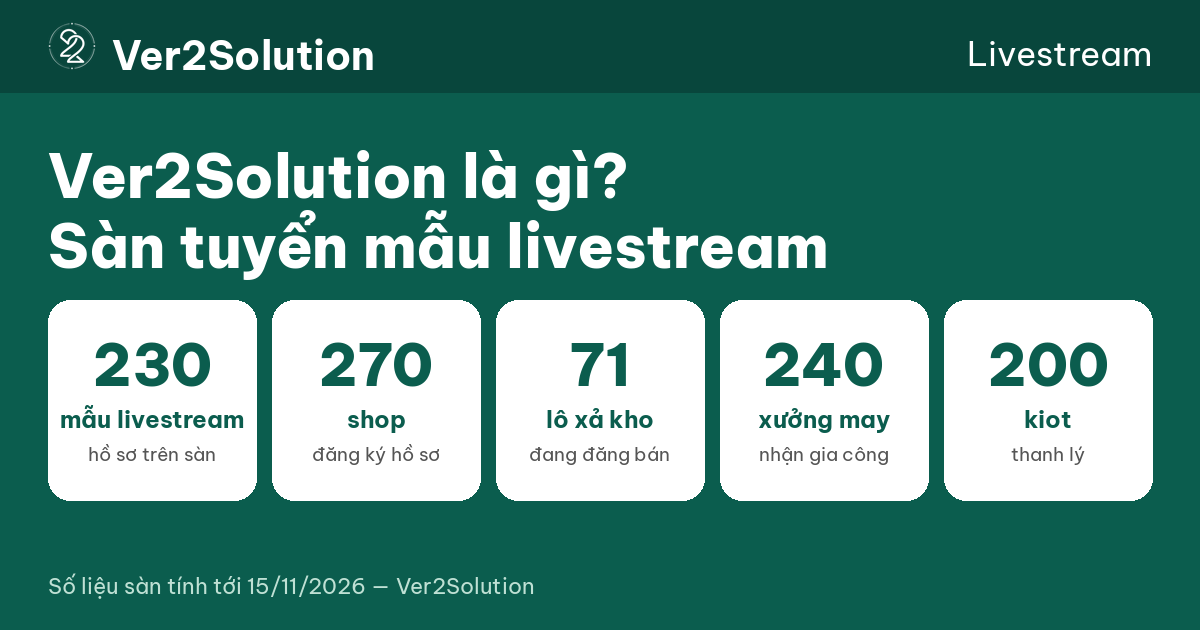
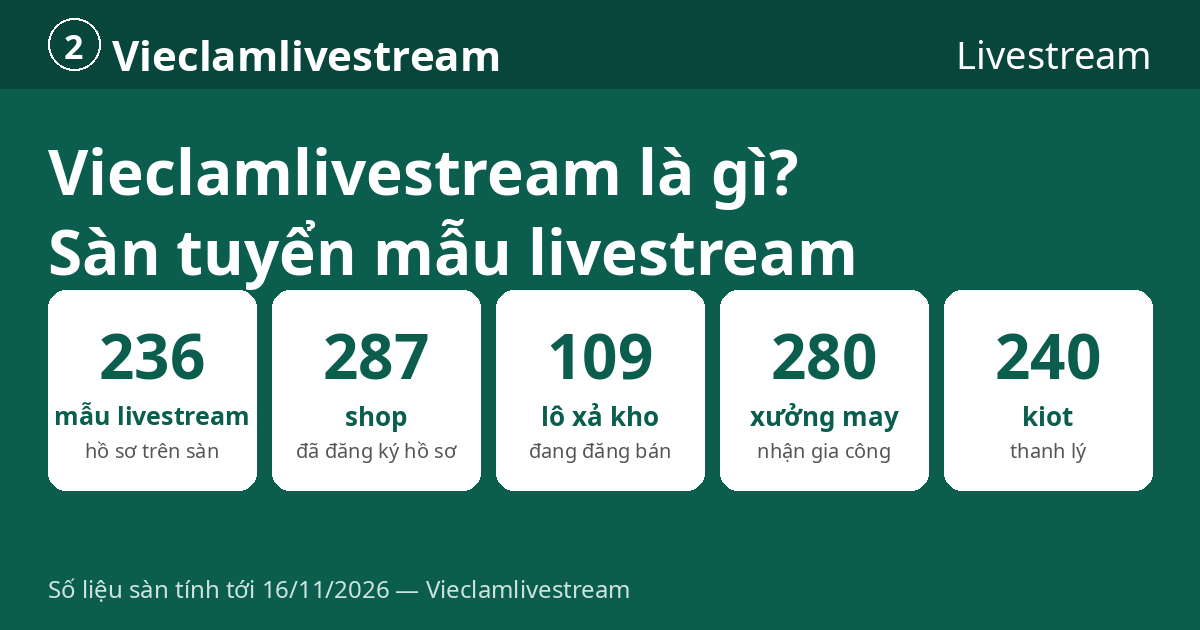
Deploy v286 dong bo so lieu trang gioi thieu (3 file)

diff --git a/gioi-thieu.html b/gioi-thieu.html
@@ -45,7 +45,7 @@
 <main class="wrap">
 <section class="section"><h1>Về chúng tôi</h1>
 <p>Vieclamlivestream.online là sàn việc làm dành cho idol live hàng đầu Việt Nam — nơi mẫu livestream, MC tìm việc đúng nghề và shop tìm đúng người lên live, liên hệ trực tiếp, không qua trung gian. Chúng tôi hoạt động 8 năm với cộng đồng hơn 400 khách bán livestream đang có nhu cầu tìm kiếm dịch vụ.</p>
-<figure style="margin:18px 0 0"><img src="images/bai-viet/gioi-thieu-vieclamlivestream-online.png" alt="Infographic vieclamlivestream.online: 236 mẫu livestream, 287 shop, 68 lô xả kho đang hoạt động, 240 xưởng may, 200 kiot — số liệu sàn tính tới 15/11/2026" style="width:100%;height:auto;border-radius:16px;display:block" loading="lazy"><figcaption style="font-size:13px;color:#666;margin-top:8px">Quy mô sàn tính tới 15/11/2026: 236 mẫu livestream · 287 shop · 68 lô xả kho đang hoạt động · 240 xưởng may · 200 kiot.</figcaption></figure></section>
+<figure style="margin:18px 0 0"><img src="images/bai-viet/gioi-thieu-vieclamlivestream-online.png" alt="Infographic vieclamlivestream.online: 236 mẫu livestream, 287 shop, 109 lô xả kho đang hoạt động, 280 xưởng may, 240 kiot — số liệu sàn tính tới 16/11/2026" style="width:100%;height:auto;border-radius:16px;display:block" loading="lazy"><figcaption style="font-size:13px;color:#666;margin-top:8px">Quy mô sàn (số liệu tự cập nhật): <span data-stat="models">236</span> mẫu livestream · <span data-stat="shops">287</span> shop · <span data-stat="lots">109</span> lô xả kho đang hoạt động · <span data-stat="factories">280</span> xưởng may · <span data-stat="kiots">240</span> kiot.</figcaption></figure></section>
 
 <section class="form-card"><h2>1. Sàn mclivestream là gì</h2>
 <p>Sàn mclivestream là một dịch vụ trong hệ sinh thái vieclamlivestream.online, gồm 4 mảng:</p>

diff --git a/sw.js b/sw.js
@@ -23,7 +23,7 @@
    (js/article-editor.js, js/article-media.js, js/seo-keywords.js) +
    publisher nhan body HTML (tools/publish-article-drafts.mjs); doi
    js/admin.js + quan-tri.html; them SQL bucket article-media (chua chay). */
-const CACHE = 'v284-shell-1'; /* v281: deploy sau v283, CACHE theo thu tu deploy (xem backlog) */
+const CACHE = 'v286-shell-1'; /* v286: deploy sau v285, CACHE theo thu tu deploy (xem backlog) */
 const SHELL = ['v20.css', 'js/data.js', 'js/app.js', 'js/themes.js', 'icon-192.png', 'icon-512.png',
   'images/partners/google-icon.png', 'images/partners/meta-icon.png', 'images/partners/tiktok-icon.png',
   'images/partners/thaco-icon.png', 'images/partners/tpbank-icon.png', 'images/partners/coccoc-icon.png',
